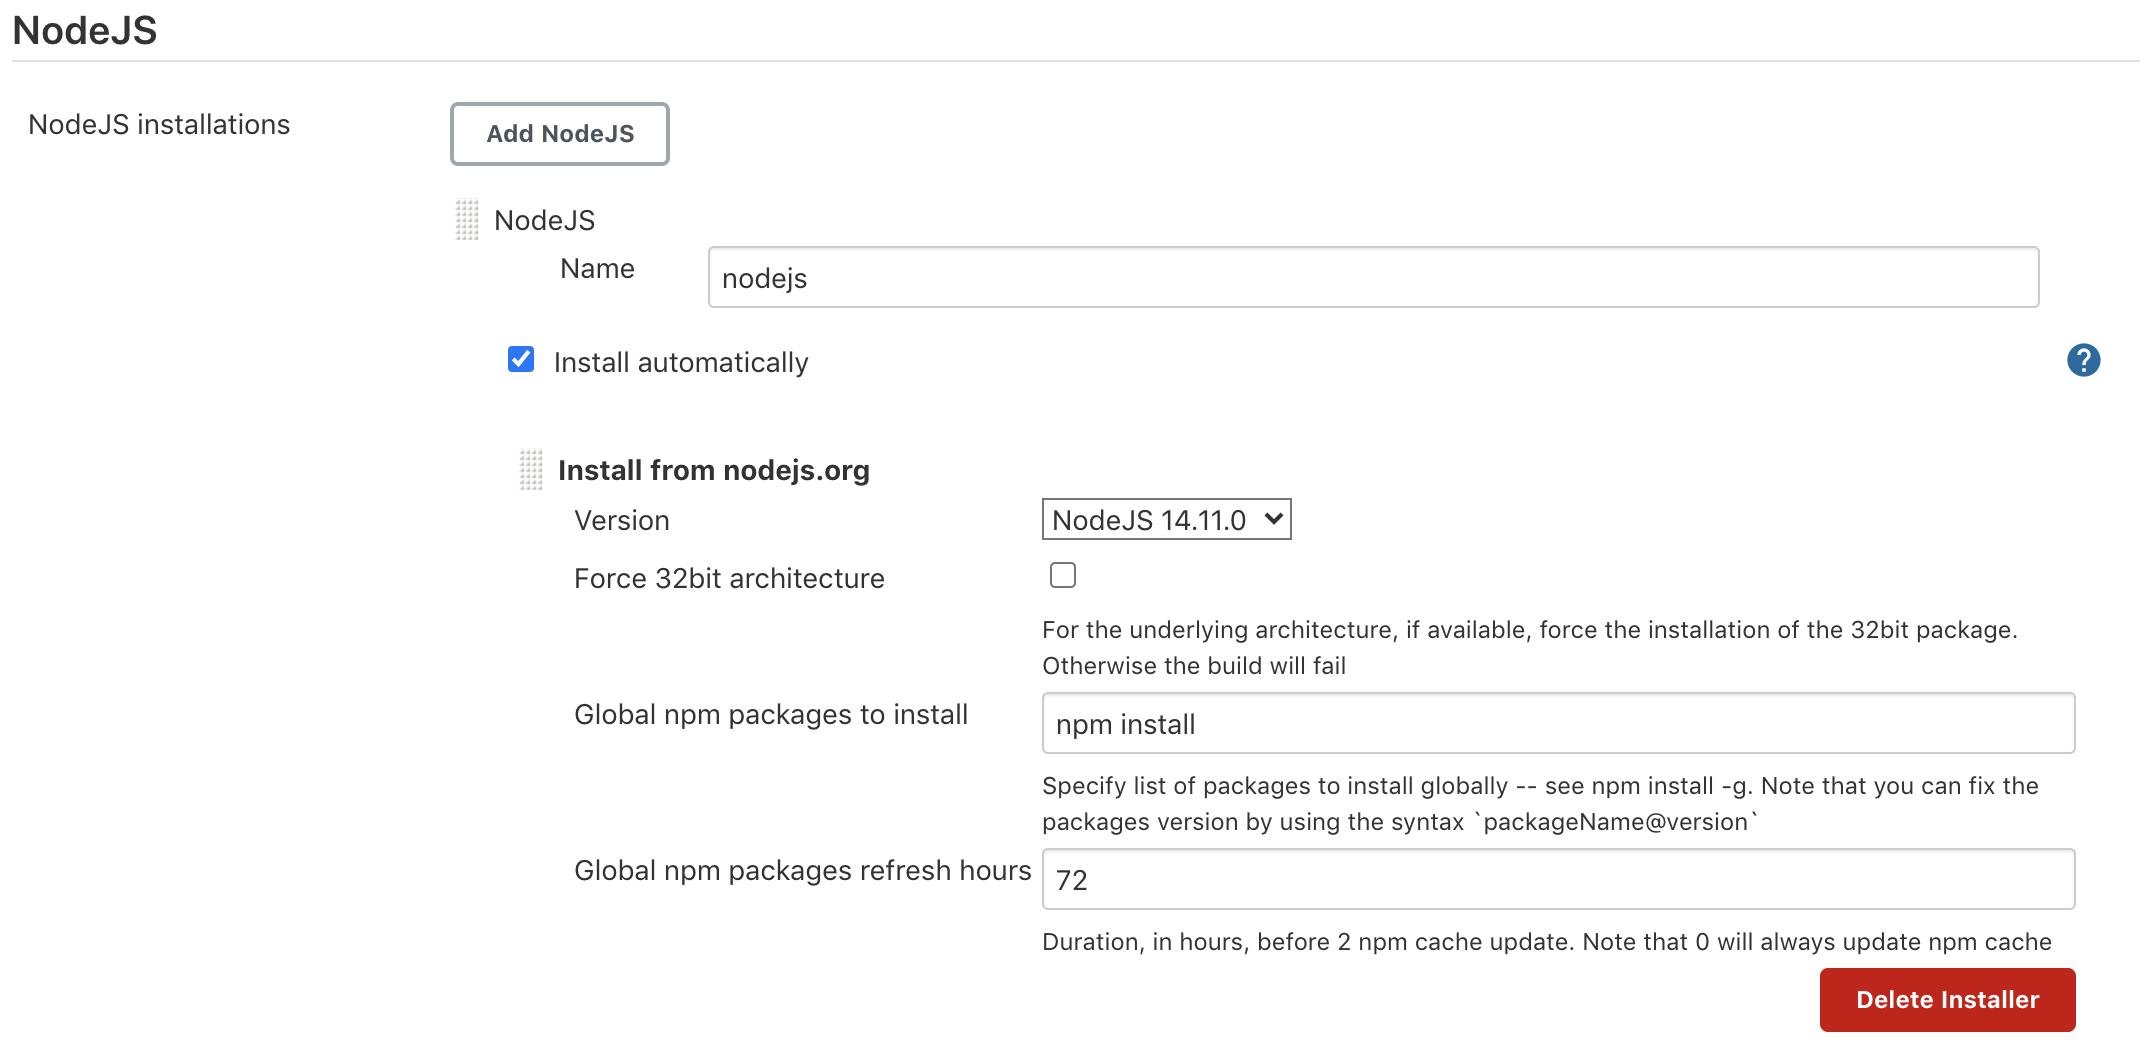
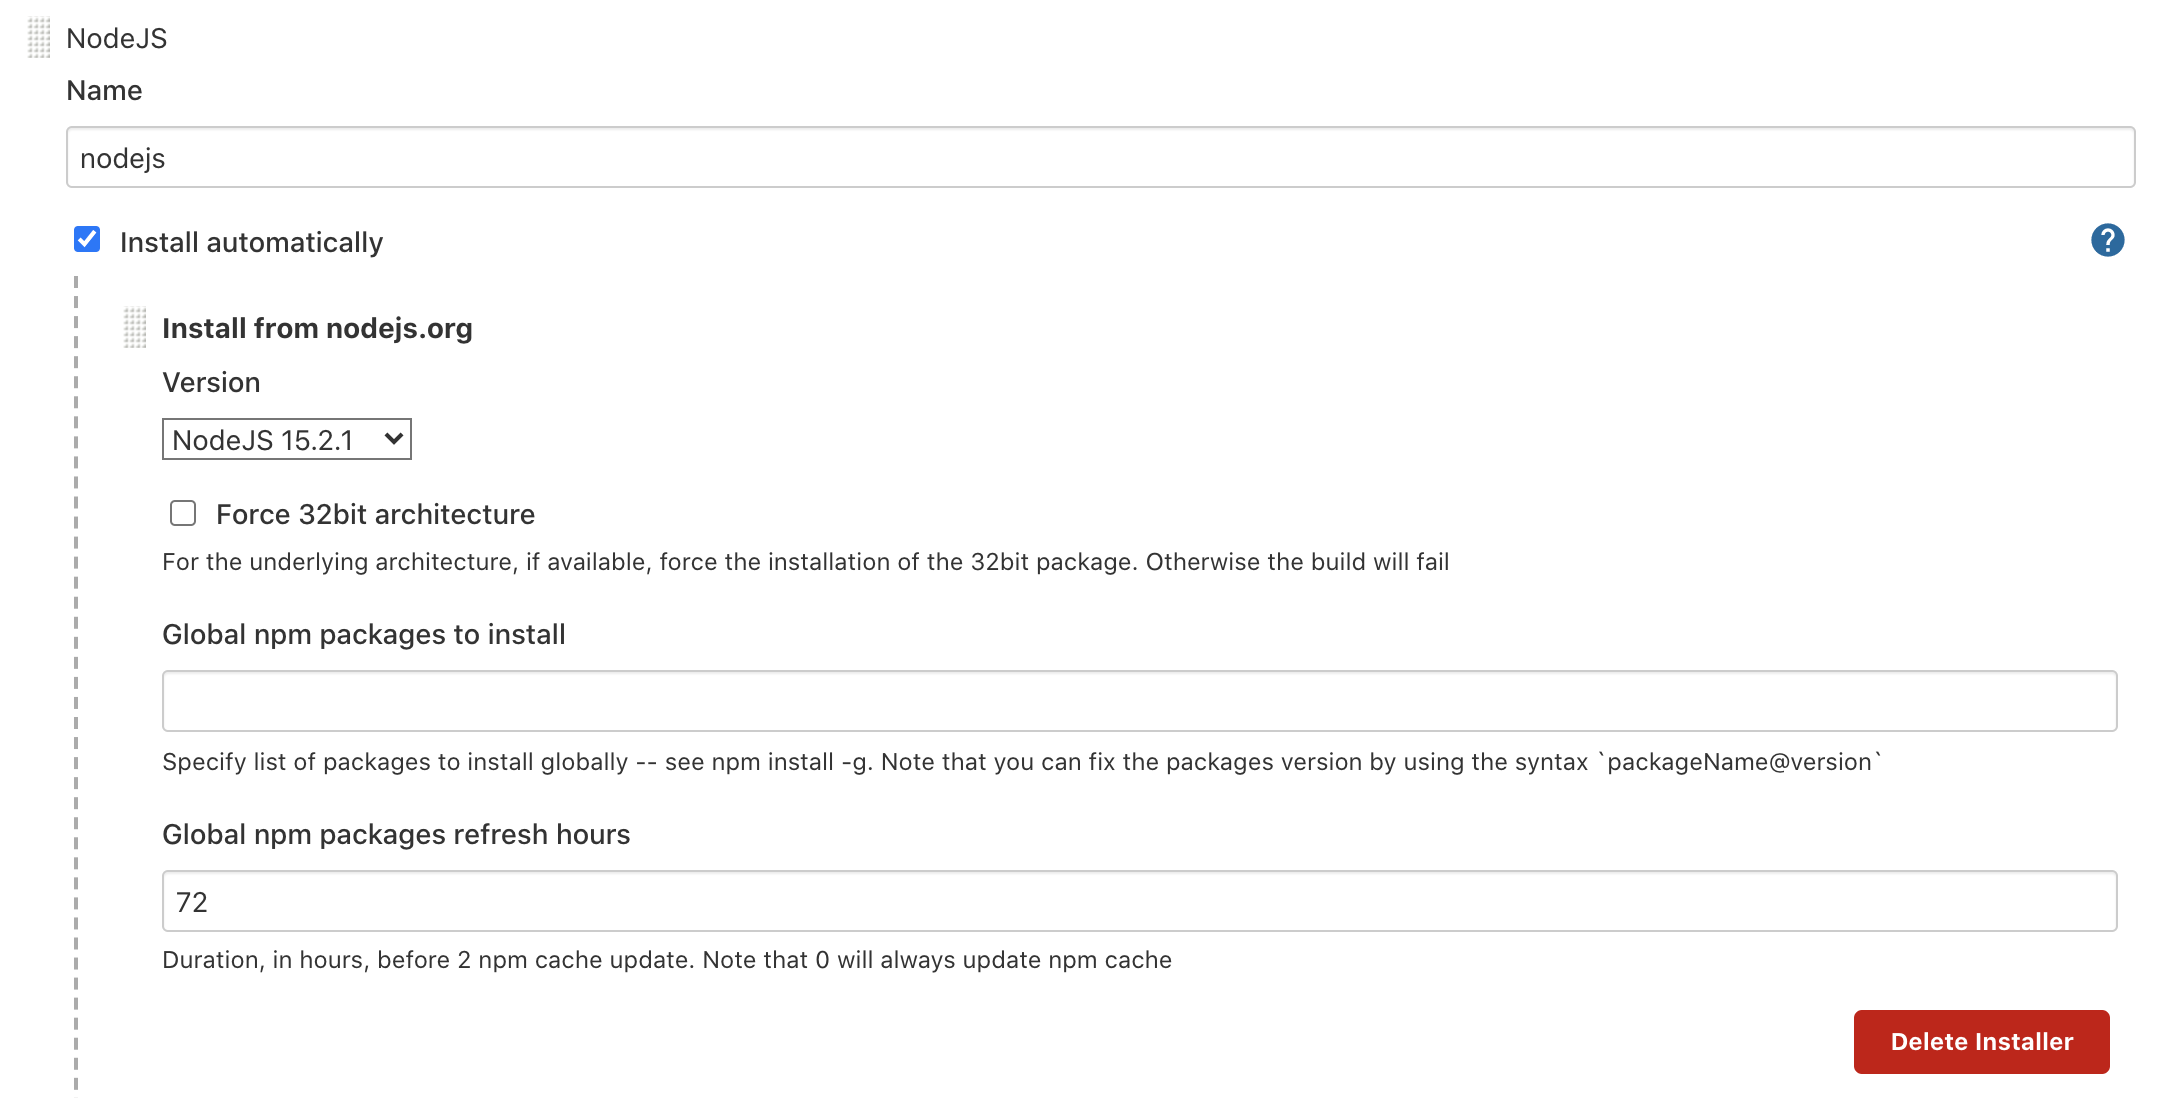
Removing old deployment configuration

diff --git a/README.md b/README.md
@@ -200,7 +200,7 @@ All of the plugins for this playground have been pre-installed on your Jenkins s
     - Name: **nodejs**
     - Install automatically: (box checked)
     - Version: (leave as default)
-    - Global npm packages to install: **npm install**
+    - Global npm packages to install: **leave it blank**
     - Global npm packages refresh hours: **72**
 - Click **Apply**
 
@@ -316,7 +316,6 @@ pipeline {
                     zip -r $UNIQUE_ANIMAL_IDENTIFIER-build-artifacts.zip build/
                     aws s3 cp $UNIQUE_ANIMAL_IDENTIFIER-build-artifacts.zip s3://dpg-november-artifact-bucket
                     cd terraform
-                    rm -rf .terraform
                     terraform init -backend-config="key=${UNIQUE_ANIMAL_IDENTIFIER}.tfstate"
                     terraform apply --auto-approve
                     """
@@ -367,7 +366,6 @@ For the "Build" and "Test" stages, we simply execute an `npm` command that will 
 However for the "Deploy" stage we execute some terraform commands which do the following:
 - `zip -r $UNIQUE_ANIMAL_IDENTIFIER-build-artifacts.zip build/`: compresses the build package and gets it ready to ship to the artifacts S3 bucket.
 - `aws s3 cp $UNIQUE_ANIMAL_IDENTIFIER-build-artifacts.zip s3://dpg-november-artifact-bucket`: copies the zipped up build package and sends it to the artifact bucket. Terraform will be able to then pull this down and unzip it for the deployment
-- `rm -rf .terraform`: removes any local state files if there are any located in the directory.
 - `terraform init -backend-config="key=${UNIQUE_ANIMAL_IDENTIFIER}.tfstate`: this initializes terraform and tells terraform that we want to hold the [state](https://www.terraform.io/docs/state/index.html) in your uniqe state file.
 - `terraform apply --auto-approve`: this will apply the infrastructure that we have defined in the `terraform/` directory of this repository.
 
@@ -448,7 +446,7 @@ It should be a couple of minutes until the website is live. While we wait, lets 
 1. A build folder is created which packages up our application.
 2. We zip up that folder and send it off to Amazon S3.
 3. When the infrastructure is provisioned, the deployed servers will pull down that build zip file and unzip it.
-4. The build package is ultimately served on port 80 (http://), which allows the public to visit and use the website
+4. The build package is ultimately served on port 80 (http://), which allows the public to visit and use the website.
 
 #### Our infrastructure
 - **load balancer**: this will distribute traffic across our servers depending on the health and utilisation of those servers. If one is in poor health, it will redirect traffic to a healthy one.
